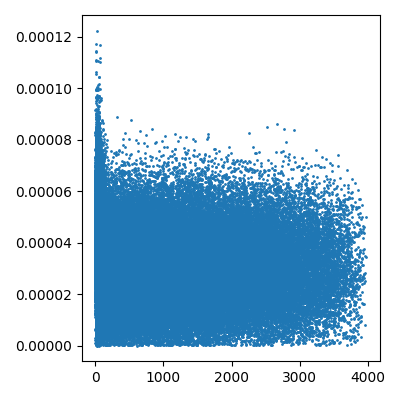
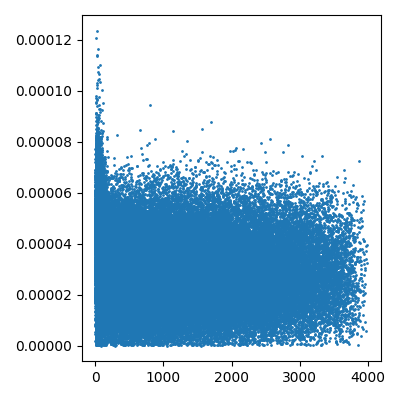
extra params for single-sided fr rule

diff --git a/paper_figures_21_05_05/paper_figs_circa_21_10/multiple_parametric_21_09_28/synfire_growth_with_ie_plasticity_21_11_04/run.py b/paper_figures_21_05_05/paper_figs_circa_21_10/multiple_parametric_21_09_28/synfire_growth_with_ie_plasticity_21_11_04/run.py
@@ -116,7 +116,7 @@ M = Generic(
     GAMMA=args.gamma[0], #1e-4,
 )
 
-S = Generic(RNG_SEED=args.rng_seed[0], DT=0.22e-3, T=150e-3, EPOCHS=3000)
+S = Generic(RNG_SEED=args.rng_seed[0], DT=0.22e-3, T=200e-3, EPOCHS=3000)
 np.random.seed(S.RNG_SEED)
 
 M.CON_PROBS_FF = np.exp(-1 * np.arange(M.N_EXC / M.PROJECTION_NUM) / M.CON_PROB_FF_CONST)
@@ -130,7 +130,7 @@ kernel_base_ei = np.arange(2 * M.CUT_IDX_TAU_PAIR_EI + 1) - M.CUT_IDX_TAU_PAIR_E
 M.KERNEL_PAIR_EI = np.exp(-1 * np.abs(kernel_base_ei) * S.DT / M.TAU_STDP_PAIR_EI).astype(float)
 M.KERNEL_PAIR_EI[M.KERNEL_PAIR_EI >= 1] = 0
 M.KERNEL_PAIR_EI[M.CUT_IDX_TAU_PAIR_EI:] *= -1
-# M.KERNEL_PAIR_EI[:M.CUT_IDX_TAU_PAIR_EI] = 0
+M.KERNEL_PAIR_EI *= 0
 
 M.DROPOUT_MAX_IDX = M.N_EXC + M.N_SILENT
 
@@ -171,8 +171,8 @@ def run_test(m, output_dir_name, show_connectivity=True, repeats=1, n_show_only=
 
     if w_r_e is None:
         w_e_e_r = np.random.rand(m.N_EXC, m.N_EXC)
-        w_e_e_r[w_e_e_r > 0.3] = 0
-        w_e_e_r *= (m.W_E_E_R * 0.03 / 0.3)
+        w_e_e_r[w_e_e_r > 0.6] = 0
+        w_e_e_r *= (m.W_E_E_R * 0.02 / 0.6)
         np.fill_diagonal(w_e_e_r, 0.)
 
         connectivity = np.where(w_e_e_r > 0, 1, 0)
@@ -381,7 +381,7 @@ def run_test(m, output_dir_name, show_connectivity=True, repeats=1, n_show_only=
                 axs[0].scatter(inh_raster[0, :] * 1000, inh_raster[1, :], s=1, c='red', zorder=0, alpha=1)
 
                 axs[0].set_ylim(-1, m.N_EXC + m.N_INH)
-                axs[0].set_xlim(m.INPUT_DELAY * 1000, 100)
+                axs[0].set_xlim(m.INPUT_DELAY * 1000, 150)
                 axs[0].set_ylabel('Cell Index')
                 axs[0].set_xlabel('Time (ms)')
 
@@ -403,7 +403,7 @@ def run_test(m, output_dir_name, show_connectivity=True, repeats=1, n_show_only=
                     })
                 else:
                     if i_e % 80 == 0:
-                        e_cell_pop_fr_setpoint += m.PROJECTION_NUM
+                        e_cell_pop_fr_setpoint += m.PROJECTION_NUM * 5
 
                     # filter e cell spks for start of bursts
                     def burst_kernel(spks):
@@ -507,7 +507,7 @@ def run_test(m, output_dir_name, show_connectivity=True, repeats=1, n_show_only=
 
 
                     # print('ei_mean_stdp', np.mean(m.ETA * m.BETA * stdp_burst_pair_e_i))
-                    w_r_copy['I'][:(m.N_EXC + m.N_SILENT), (m.N_EXC + m.N_SILENT):] += 1e-3 * m.ETA * m.BETA * stdp_burst_pair_e_i
+                    w_r_copy['I'][:(m.N_EXC + m.N_SILENT), (m.N_EXC + m.N_SILENT):] += 1e-4 * m.ETA * m.BETA * stdp_burst_pair_e_i
                     w_r_copy['I'][w_r_copy['I'] < 0] = 0
                     w_r_copy['I'][w_r_copy['I'] > m.W_I_E_R_MAX] = m.W_I_E_R_MAX
 

diff --git a/paper_figures_21_05_05/paper_figs_circa_21_10/multiple_parametric_21_09_28/single_cell_silent_dist_ordered_21_10_21/submit_pop_single_silent_one_sided.py b/paper_figures_21_05_05/paper_figs_circa_21_10/multiple_parametric_21_09_28/single_cell_silent_dist_ordered_21_10_21/submit_pop_single_silent_one_sided.py
@@ -78,7 +78,7 @@ params = OrderedDict()
 params['SEED'] = [str(i) for i in range(2031, 2051)]
 params['ALPHA_1'] = [ str(3e-2) ]
 params['ALPHA_2'] = [ str(0.5e-2) ]
-params['GAMMA'] = [ str(0.1e-4) ]
+params['GAMMA'] = [ str(0.3e-4), str(1e-4) ]
 params['SYN_PROP_DIST'] = [ str(1.0) ]
 params['DROP_SEV'] = [str(0.35), str(0.5)]
 # params['ALPHA_1'] = ((1e-2, 5e-2), 5)
